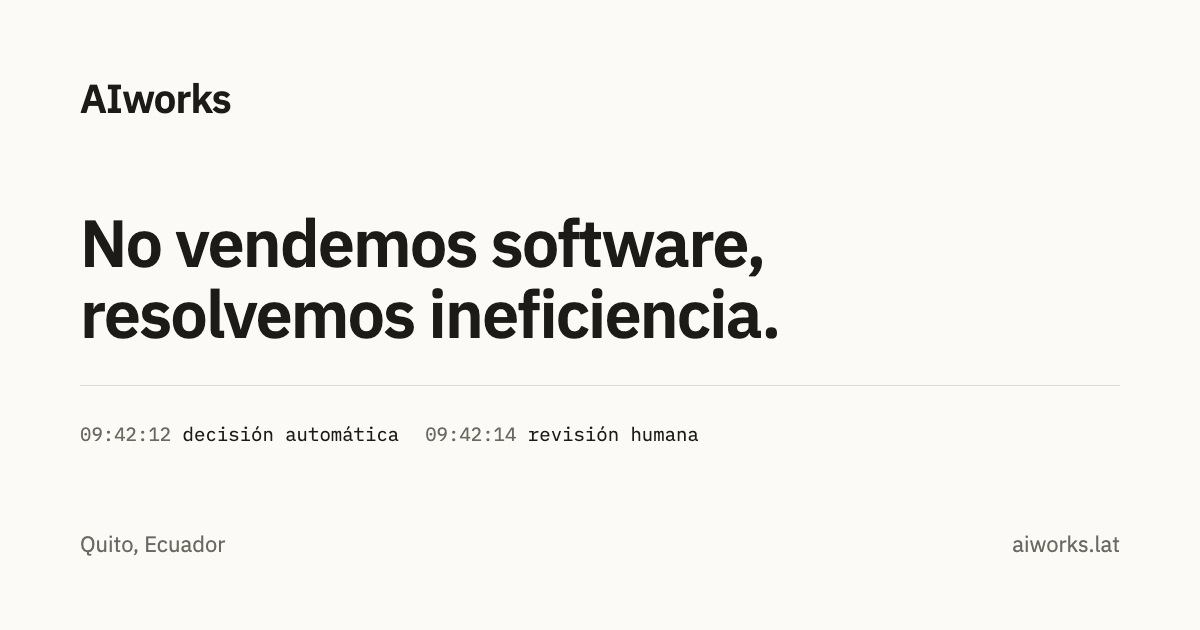
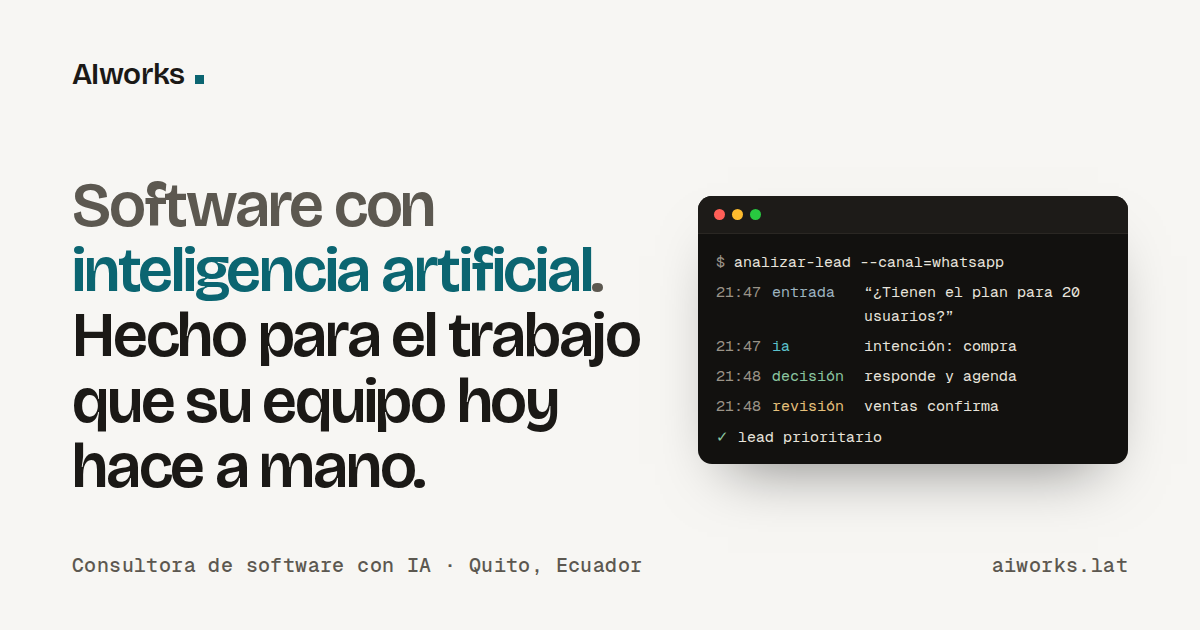
chore: limpieza para publicar
- Se quitan las 6 capturas de .e2e/ (~1,1 MB) que entraron en el PR:
  scripts/e2e-landing.sh las genera en local y no aportan al sitio. Se
  agrega .e2e/ al .gitignore.
- Nueva og-image.png (la vista previa al compartir el enlace) con el diseño
  actual: titular en Bricolage con el acento petróleo, terminal del lead y
  "Consultora de software con IA · Quito, Ecuador". La anterior mostraba la
  tipografía y el lema previos. Se actualiza su texto alternativo.
- La pestaña del navegador muestra solo "AIworks". El título descriptivo se
  mantiene en openGraph/twitter para las vistas previas al compartir, y
  /privacidad sigue como "Política de privacidad | AIworks".

Claude-Session: https://claude.ai/code/session_015T6Yw6C2dhesed5vezrwEo

diff --git a/frontend/app/layout.tsx b/frontend/app/layout.tsx
@@ -26,8 +26,10 @@ const mono = Geist_Mono({ subsets: ["latin"], variable: "--fuente-mono", display
 
 export const metadata: Metadata = {
   metadataBase: new URL(SITE_URL),
+  // En la pestaña solo el nombre. El título descriptivo queda en openGraph/twitter, que es
+  // lo que se ve al compartir el enlace; las demás rutas usan "%s | AIworks".
   title: {
-    default: "AIworks | Automatización de procesos con IA en Quito",
+    default: "AIworks",
     template: "%s | AIworks"
   },
   description: "Su equipo copia datos de un Excel a otro. Construimos el software que hace ese trabajo solo, con revisión humana y registro auditable de cada decisión. Diagnóstico de 15 minutos sin costo.",
@@ -63,7 +65,7 @@ export const metadata: Metadata = {
         url: "/og-image.png",
         width: 1200,
         height: 630,
-        alt: "AIworks — No vendemos software, resolvemos ineficiencia. Quito, Ecuador."
+        alt: "AIworks: software con inteligencia artificial, hecho para el trabajo que su equipo hoy hace a mano. Quito, Ecuador."
       }
     ],
   },
